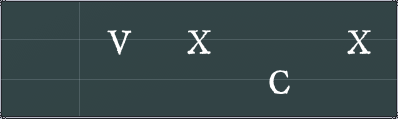
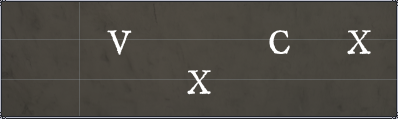
final touches i forgot

diff --git a/README.md b/README.md
@@ -3,3 +3,8 @@ To use this macro first you need: Python (https://www.python.org/downloads/) and
 #1. Run "get_wisp_box.py" with your ritual cast open, this allows the machine to know where to look when autocasting
 #2. Run "main.pyw", this will open a background process. Press f5 to toggle, starts disabled
 #3. As long as main.pyw is running and you have the macro on, your ritual casts will be automatically completed!
+
+NOTE: When running get_wisp_box.py make sure to:
+#have the background behind the ritual cast be a solid surface/one colour
+#close your inventory before tabbing into roblox
+this ensures the macro is accurate and does not give a false positive (even if it does, just run it again with a different threshold)
